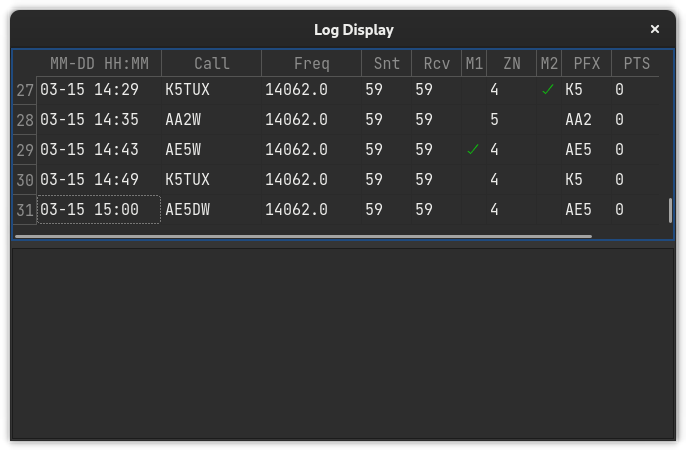
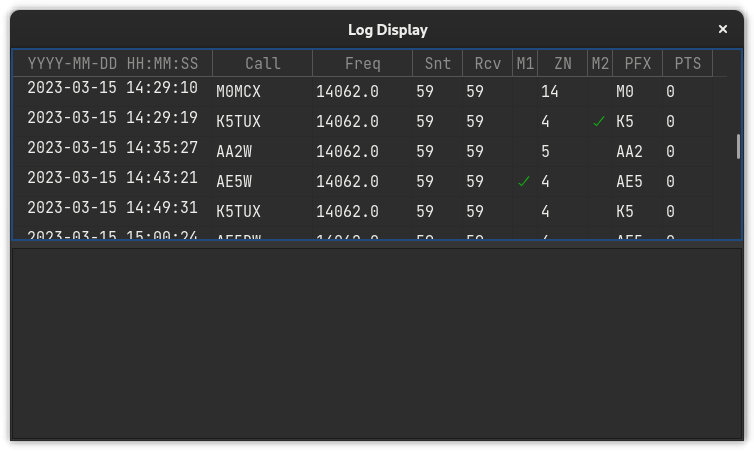
updated docs.

diff --git a/README.md b/README.md
@@ -47,6 +47,7 @@ Feature complete.
 
 ## Changes of note
 
+- [23-3-17] Added multicast UDP messages to update the log window when new contact made. You can now edit existing contacts in the log window. You can't delete them yet. Got rid of watchdog.
 - [23-3-15] Added a rudimentary log view window.
 - [23-3-10] Started work on saving contacts to the DB. Added a claculate_wpx_prefix routine.
 - [23-3-9] Placed network call lookup in a thread. Display freq/mode for non CAT radios. Hooked up the CW macros to cwdaemon.
@@ -133,6 +134,6 @@ You can fill. You can fill. Everyone look at your keys.
 
 ## Log Display
 
-At this point the log display window doesn't do all that much except exist.
+You can double click a cell and edit the contents.
 
 ![Log Display Window](https://github.com/mbridak/not1mm/raw/master/pic/logdisplay.png)
